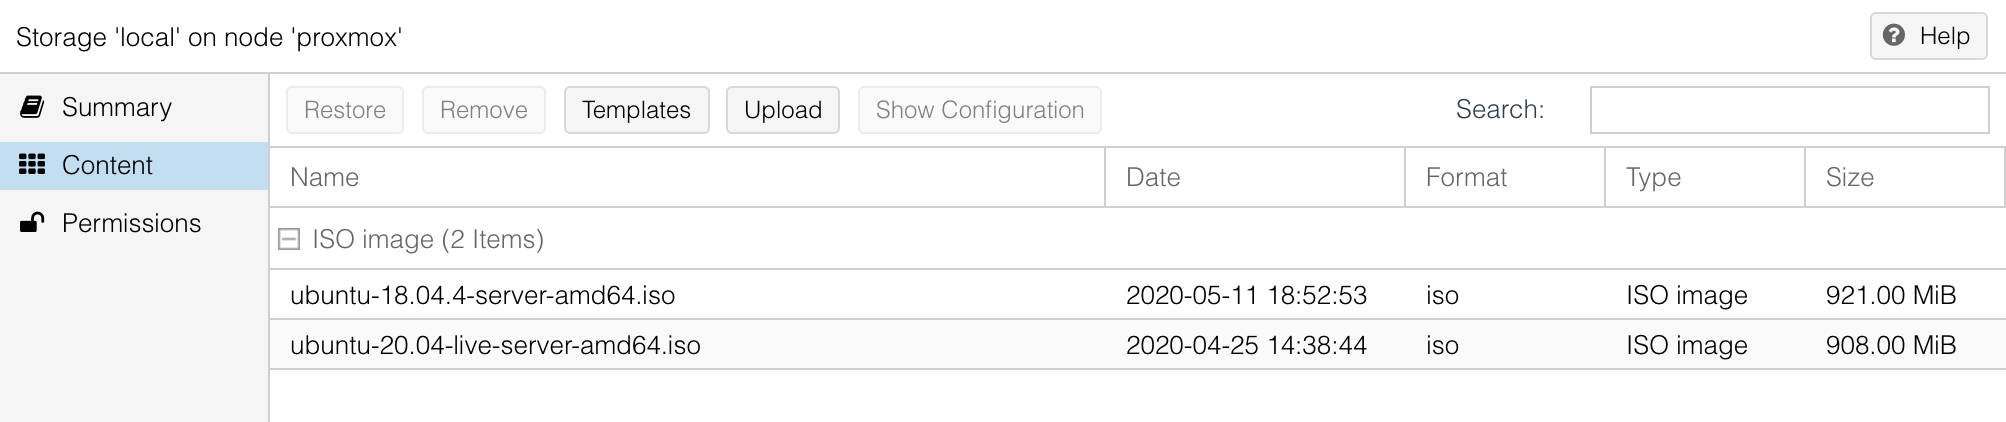
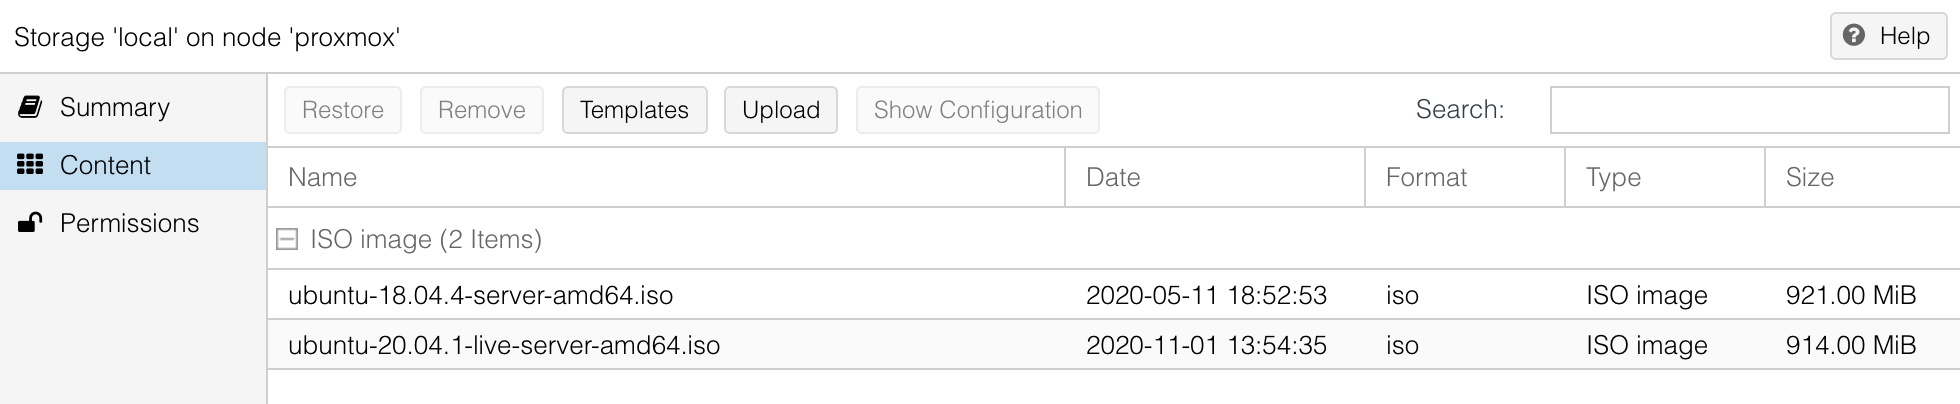
feat(ubuntu): update Ubuntu 20.04 to ubuntu-20.04.1-live-server-amd64.iso

diff --git a/content/posts/ubuntu-server-2004-image-packer-subiquity-for-proxmox.md b/content/posts/ubuntu-server-2004-image-packer-subiquity-for-proxmox.md
@@ -2,18 +2,18 @@
 title = "Ubuntu Server 20.04 image with Packer and Subiquity for Proxmox"
 slug = "ubuntu-server-2004-image-packer-subiquity-for-proxmox"
 date = "2020-05-13T18:31:00+02:00"
-lastmod = "2020-05-13T18:31:00+02:00"
+lastmod = "2020-12-18T23:18:00+01:00"
 categories = ["automation"]
 tags = ["ubuntu", "packer", "proxmox"]
 +++
 
-Starting with 20.04, Ubuntu decided to update the live server installer to implement the [autoinstall specification](https://wiki.ubuntu.com/FoundationsTeam/AutomatedServerInstalls) to be able to fully automate the install process using only Subiquity. Subiquity is the new server installer (aka "ubiquity for servers") and aims to replace the previous classic system based on debian-installer.
+Starting with 20.04, Ubuntu decided to update the live server installer to implement the [autoinstall specification](https://ubuntu.com/server/docs/install/autoinstall) to be able to fully automate the install process using only Subiquity. Subiquity is the new server installer (aka "ubiquity for servers") and aims to replace the previous classic system based on debian-installer.
 
 This article illustrates how to generate an Ubuntu Server 20.04 image template using Packer and only Subiquity on Proxmox.
 
 ## Introduction
 
-Subiquity is only available in the `live` version of the image file (for instance `ubuntu-20.04-live-server-amd64.iso`). The previous system based on debian-installer (preseed files) has been discontinued and won't work anymore.
+Subiquity is only available in the `live` version of the image file (for instance `ubuntu-20.04.1-live-server-amd64.iso`). The previous system based on debian-installer (preseed files) has been discontinued and won't work anymore.
 
 {{< alert "info" "feather" >}}
 It's still possible to use debian-installer by downloading the legacy server image that can be found in a dedicated folder `ubuntu-legacy-server` on the official [Ubuntu images repository](http://cdimage.ubuntu.com/ubuntu-legacy-server/releases/20.04/release/).
@@ -45,7 +45,7 @@ $ pveum aclmod / -user packer@pve -role Packer
 Proxmox `pveum` is available through a SSH connection or from the web shell accessible under the node parameters on the UI.
 {{< /alert >}}
 
-Download the Ubuntu Server 20.04 ISO from [the images repository](http://releases.ubuntu.com/20.04/). At the time of writing, the latest version available was `ubuntu-20.04-live-server-amd64.iso`. Put the ISO inside the `local` storage under the `ISO image` category.
+Download the Ubuntu Server 20.04 ISO from [the images repository](http://releases.ubuntu.com/20.04/). At the time of writing, the latest version available was `ubuntu-20.04.1-live-server-amd64.iso`. Put the ISO inside the `local` storage under the `ISO image` category.
 
 ![Local storage in Proxmox](/images/proxmox/storage.png)
 
@@ -74,7 +74,7 @@ Technically, Packer will start a VM in Proxmox, launch the installer from the bo
       "storage_pool": "local-lvm",
       "storage_pool_type": "lvm"
     }],
-    "iso_file": "local:iso/ubuntu-20.04-live-server-amd64.iso",
+    "iso_file": "local:iso/ubuntu-20.04.1-live-server-amd64.iso",
     "unmount_iso": true,
     "boot_wait": "5s",
     "memory": 1024,
@@ -87,12 +87,15 @@ Technically, Packer will start a VM in Proxmox, launch the installer from the bo
       "--- <enter>"
     ],
     "ssh_username": "madalynn",
-    "ssh_password": "madalynn"
+    "ssh_password": "madalynn",
+    "ssh_timeout": "20m"
   }]
 }
 ```
 
-The majority of the parameters are pretty straightforward to understand. Launch Packer with the following command.
+The majority of the parameters are pretty straightforward to understand. The `ssh_timeout` will give time to the installer to download the latest security updates during the setup.
+
+Launch Packer with the following command.
 
 ```bash
 $ packer build -var-file=secrets.json ubuntu.json
@@ -152,7 +155,7 @@ Technically speaking, the easiest solution is to wait until the `/var/lib/cloud/
 }
 ```
 
-Provisioners will be executed directly on the VM once the SSH connection is available. Packer supports [a lot of provisioners](https://www.packer.io/docs/provisioners/index.html). For instance, it's possible in this step to launch an Ansible playbook or to configure the Chef client.
+Provisioners will be executed directly on the VM once the SSH connection is available. Packer supports [a lot of provisioners](https://www.packer.io/docs/provisioners). For instance, it's possible in this step to launch an Ansible playbook or to configure the Chef client.
 
 ## Cloud-init
 
@@ -180,7 +183,7 @@ autoinstall:
 Unlike a classic cloud-init file, everything must be under the `autoinstall` key. The rest will be ignored.
 {{< /alert >}}
 
-The [official documentation](https://wiki.ubuntu.com/FoundationsTeam/AutomatedServerInstalls) lists all available parameters that can be configured. The scope is reduced compared to what was possible with debian-installer but Subiquity gives the ability to use all other [cloud-init modules](https://cloudinit.readthedocs.io/en/latest/topics/modules.html) to compensate.
+The [official documentation](https://ubuntu.com/server/docs/install/autoinstall-reference) lists all available parameters that can be configured. The scope is reduced compared to what was possible with debian-installer but Subiquity gives the ability to use all other [cloud-init modules](https://cloudinit.readthedocs.io/en/latest/topics/modules.html) to compensate.
 
 {{< alert "info" "tools" >}}
 Under the hood, Subiquity will be able to handle some actions by itself (like partitioning) and will generate a cloud-init config file that will be executed after a reboot for the rest.
